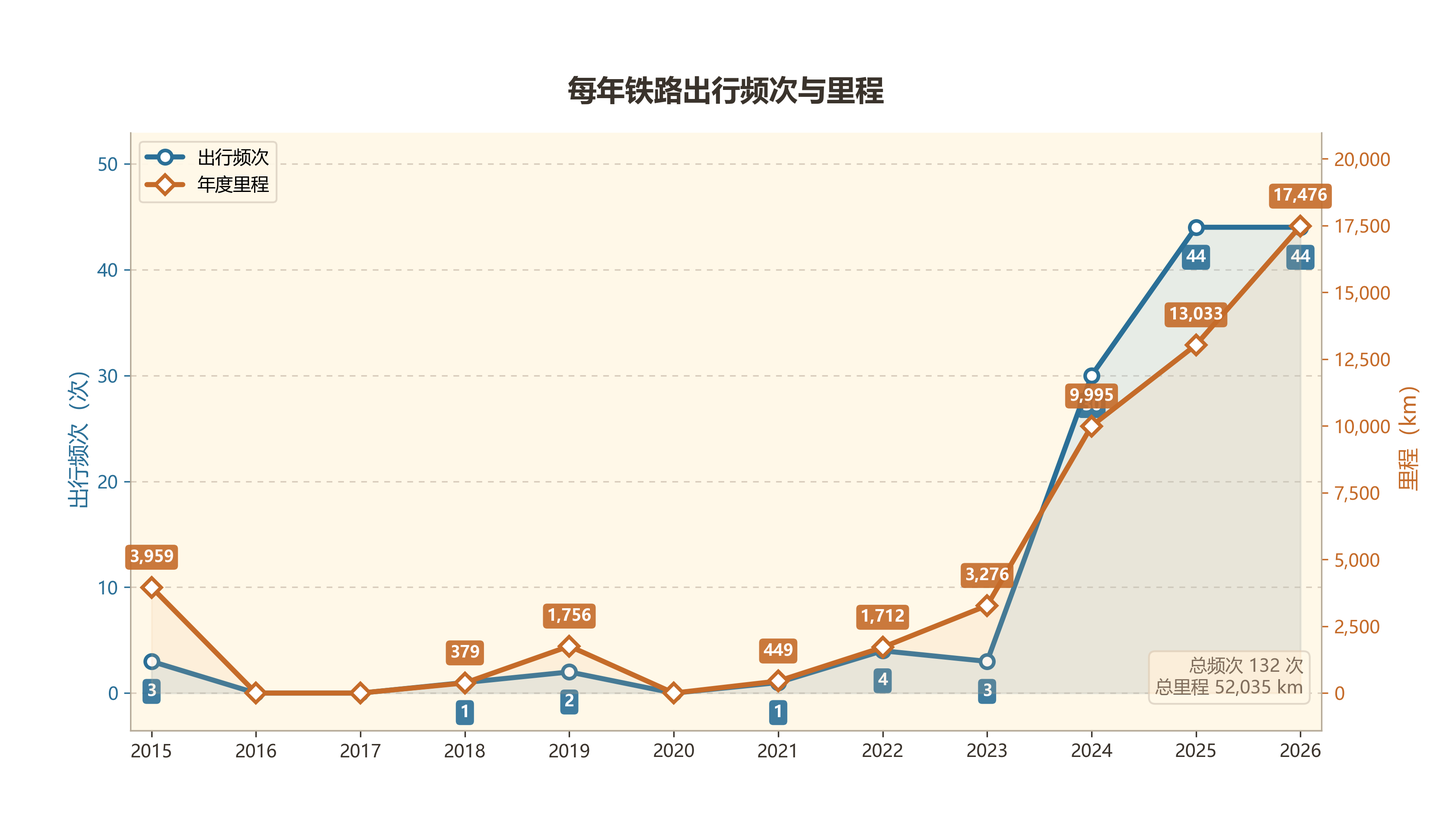
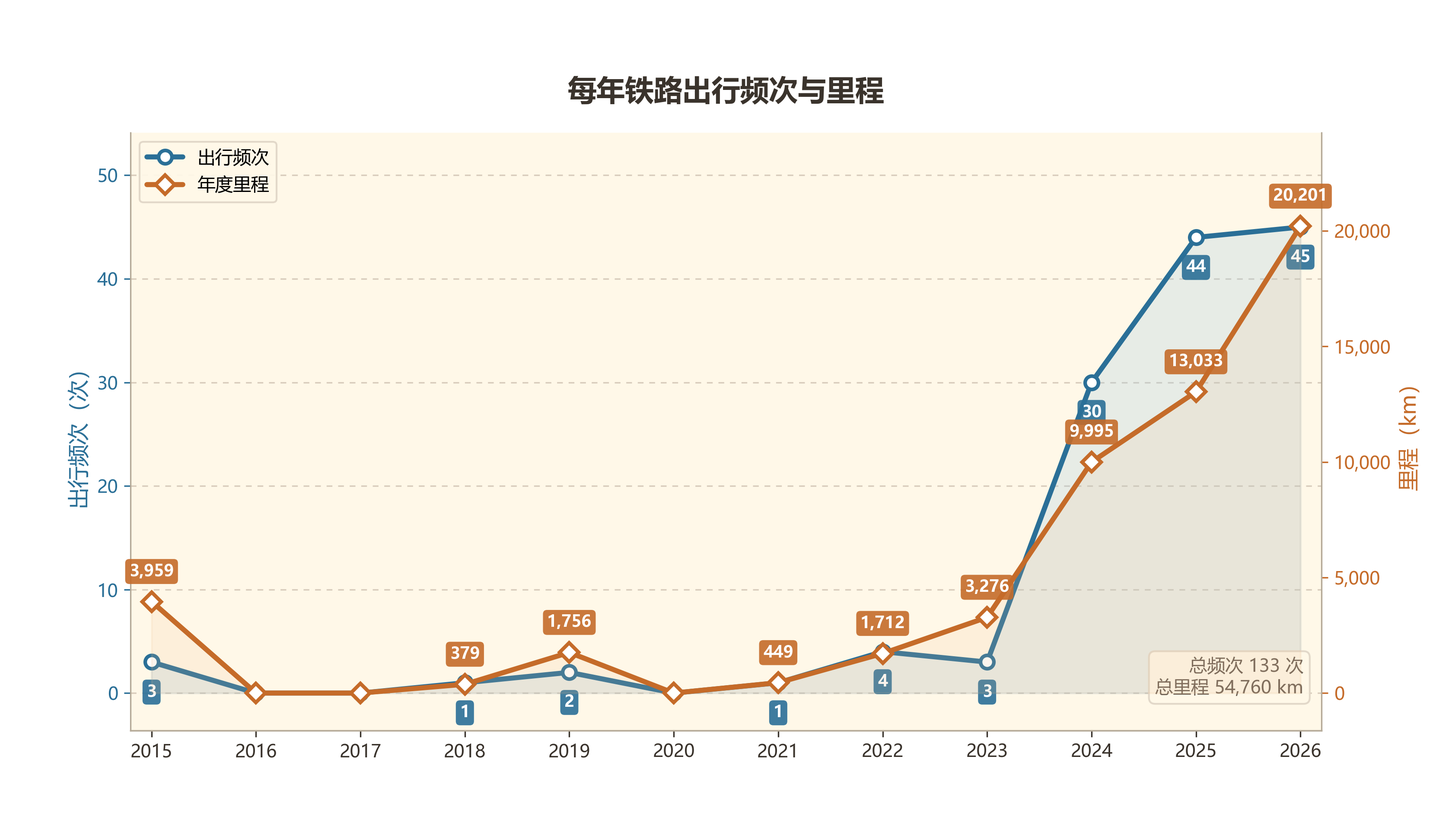
commit

diff --git a/文章统计.md b/文章统计.md
@@ -1,12 +1,12 @@
 # 文章字数统计（游记 + 指定文章）
 
-统计时间： 2026-08-23 07:04:03
+统计时间： 2026-08-23 12:19:47
 
 ## 总体统计
 
-- 文章总数： 34 篇
-- 总字数： 152.4k
-- 平均字数： 4481 字/篇
+- 文章总数： 35 篇
+- 总字数： 153.6k
+- 平均字数： 4387 字/篇
 
 ## 按发表年份统计
 
@@ -15,8 +15,8 @@
 | 2020 | 1 | 6100 | 6100 |
 | 2023 | 1 | 13000 | 13000 |
 | 2024 | 11 | 37360 | 3396 |
-| 2025 | 13 | 58700 | 4515 |
-| 2026 | 8 | 37200 | 4650 |
+| 2025 | 13 | 58800 | 4523 |
+| 2026 | 9 | 38300 | 4255 |
 
 ## 文章详情
 
@@ -35,15 +35,15 @@
 | 11 | “人生短短几个秋啊，不醉不罢休”：在洛阳、郑州的中秋 | 4k | 2024-09-19 | 2026-08-04 | [查看文章](https://kangaroogao.com/posts/4186/) |
 | 12 | 潮汕初探 | 1.2k | 2024-09-20 | 2026-07-12 | [查看文章](https://kangaroogao.com/posts/52b1/) |
 | 13 | 今古一相接，长歌怀旧游：国庆出游杂记 | 4.7k | 2024-10-07 | 2026-07-12 | [查看文章](https://kangaroogao.com/posts/786/) |
-| 14 | 行旅杂记 | 7.2k | 2024-11-15 | 2026-08-17 | [查看文章](https://kangaroogao.com/posts/9e84/) |
+| 14 | 行旅杂记 | 7.2k | 2024-11-15 | 2026-08-23 | [查看文章](https://kangaroogao.com/posts/9e84/) |
 | 15 | 清明游记：枣庄、徐州、淮北 | 6.3k | 2025-04-10 | 2026-08-04 | [查看文章](https://kangaroogao.com/posts/b857/) |
 | 16 | 小城小记1：六安 | 1.5k | 2025-06-24 | 2026-07-27 | [查看文章](https://kangaroogao.com/posts/83be/) |
 | 17 | 北京行迹 | 10.4k | 2025-08-01 | 2026-08-06 | [查看文章](https://kangaroogao.com/posts/1502/) |
-| 18 | 回家路上2：泾县、福州、龙岩、赣州 | 10.5k | 2025-08-06 | 2026-08-04 | [查看文章](https://kangaroogao.com/posts/99aa/) |
+| 18 | 大城小事1：广州 | 4.1k | 2025-08-06 | 2026-08-11 | [查看文章](https://kangaroogao.com/posts/8478/) |
 | 19 | 大城小事2：深圳（兼记东莞） | 1.6k | 2025-08-06 | 2026-07-27 | [查看文章](https://kangaroogao.com/posts/a78e/) |
-| 20 | 大城小事1：广州 | 4.1k | 2025-08-06 | 2026-08-11 | [查看文章](https://kangaroogao.com/posts/8478/) |
+| 20 | 回家路上2：泾县、福州、龙岩、赣州 | 10.5k | 2025-08-06 | 2026-08-04 | [查看文章](https://kangaroogao.com/posts/99aa/) |
 | 21 | 保研夏令营期间的行走 | 1.9k | 2025-08-06 | 2026-07-16 | [查看文章](https://kangaroogao.com/posts/3321/) |
-| 22 | 湛江碎影 | 6k | 2025-08-24 | 2026-08-22 | [查看文章](https://kangaroogao.com/posts/a7ec/) |
+| 22 | 湛江碎影 | 6.1k | 2025-08-24 | 2026-08-23 | [查看文章](https://kangaroogao.com/posts/a7ec/) |
 | 23 | 小城小记2：滁州、马鞍山 | 3.1k | 2025-09-15 | 2026-08-04 | [查看文章](https://kangaroogao.com/posts/cea0/) |
 | 24 | 小城小记3：寿县、阜阳、周口、漯河、驻马店、信阳、孝感 | 7.4k | 2025-10-03 | 2026-08-04 | [查看文章](https://kangaroogao.com/posts/e4f4/) |
 | 25 | 天津初探 | 2.1k | 2025-11-23 | 2026-07-16 | [查看文章](https://kangaroogao.com/posts/ec8e/) |
@@ -56,14 +56,15 @@
 | 32 | 烟雨过金陵 | 4.6k | 2026-07-13 | 2026-07-31 | [查看文章](https://kangaroogao.com/posts/cbd7/) |
 | 33 | 走河西 | 10.7k | 2026-07-20 | 2026-08-22 | [查看文章](https://kangaroogao.com/posts/c866/) |
 | 34 | 周末到河北：张家口（市区、蔚县、宣化） | 2.3k | 2026-08-05 | 2026-08-16 | [查看文章](https://kangaroogao.com/posts/b102/) |
+| 35 | 在 K158 上：十年旅行小结 | 1.1k | 2026-08-09 | 2026-08-23 | [查看文章](https://kangaroogao.com/posts/6ecd/) |
 
 ## 字数分布
 
 - 1000字以下： 1 篇 (2.9%)
-- 1000-3000字： 14 篇 (41.2%)
-- 3000-5000字： 8 篇 (23.5%)
-- 5000-10000字： 7 篇 (20.6%)
-- 10000字以上： 4 篇 (11.8%)
+- 1000-3000字： 15 篇 (42.9%)
+- 3000-5000字： 8 篇 (22.9%)
+- 5000-10000字： 7 篇 (20.0%)
+- 10000字以上： 4 篇 (11.4%)
 
 ## 按字数排序
 
@@ -71,35 +72,36 @@
 |------|----------|------|----------|----------|------|
 | 1 | 冬日访岳阳楼 | 960 | 2024-01-20 | 2026-07-12 | [查看文章](https://kangaroogao.com/posts/1fb2/) |
 | 2 | 雄安印象 | 1k | 2025-12-10 | 2026-07-12 | [查看文章](https://kangaroogao.com/posts/674c/) |
-| 3 | 潮汕初探 | 1.2k | 2024-09-20 | 2026-07-12 | [查看文章](https://kangaroogao.com/posts/52b1/) |
-| 4 | 武汉岳阳行记 | 1.2k | 2024-03-03 | 2026-07-12 | [查看文章](https://kangaroogao.com/posts/6385/) |
-| 5 | 小城小记4：新乡 | 1.4k | 2026-01-16 | 2026-07-16 | [查看文章](https://kangaroogao.com/posts/2661/) |
-| 6 | 小城小记1：六安 | 1.5k | 2025-06-24 | 2026-07-27 | [查看文章](https://kangaroogao.com/posts/83be/) |
-| 7 | 大城小事2：深圳（兼记东莞） | 1.6k | 2025-08-06 | 2026-07-27 | [查看文章](https://kangaroogao.com/posts/a78e/) |
-| 8 | 保研夏令营期间的行走 | 1.9k | 2025-08-06 | 2026-07-16 | [查看文章](https://kangaroogao.com/posts/3321/) |
-| 9 | 黄山西递行记 | 1.9k | 2024-03-10 | 2026-07-16 | [查看文章](https://kangaroogao.com/posts/e08f/) |
-| 10 | 天津初探 | 2.1k | 2025-11-23 | 2026-07-16 | [查看文章](https://kangaroogao.com/posts/ec8e/) |
-| 11 | 周末到河北：张家口（市区、蔚县、宣化） | 2.3k | 2026-08-05 | 2026-08-16 | [查看文章](https://kangaroogao.com/posts/b102/) |
-| 12 | 回家路上1：杭州、宁波、南昌、郴州、韶关 | 2.4k | 2024-08-07 | 2026-08-21 | [查看文章](https://kangaroogao.com/posts/bb58/) |
-| 13 | 心事浩茫连广宇：酒泉访学，兼记嘉峪关 | 2.6k | 2026-04-20 | 2026-07-16 | [查看文章](https://kangaroogao.com/posts/c975/) |
-| 14 | 访山海关 | 2.6k | 2026-01-16 | 2026-07-16 | [查看文章](https://kangaroogao.com/posts/7171/) |
-| 15 | （不太）简短的本站介绍 | 2.8k | 2025-01-25 | 2026-07-12 | [查看文章](https://kangaroogao.com/posts/4086/) |
-| 16 | 小城小记2：滁州、马鞍山 | 3.1k | 2025-09-15 | 2026-08-04 | [查看文章](https://kangaroogao.com/posts/cea0/) |
-| 17 | 这个博客网站是如何搭建的？ | 3.4k | 2024-11-22 | 2026-07-12 | [查看文章](https://kangaroogao.com/posts/18e4/) |
-| 18 | “人生短短几个秋啊，不醉不罢休”：在洛阳、郑州的中秋 | 4k | 2024-09-19 | 2026-08-04 | [查看文章](https://kangaroogao.com/posts/4186/) |
-| 19 | 大城小事1：广州 | 4.1k | 2025-08-06 | 2026-08-11 | [查看文章](https://kangaroogao.com/posts/8478/) |
-| 20 | 烟雨过金陵 | 4.6k | 2026-07-13 | 2026-07-31 | [查看文章](https://kangaroogao.com/posts/cbd7/) |
-| 21 | 今古一相接，长歌怀旧游：国庆出游杂记 | 4.7k | 2024-10-07 | 2026-07-12 | [查看文章](https://kangaroogao.com/posts/786/) |
-| 22 | 山陕漫游 | 4.8k | 2026-07-05 | 2026-08-23 | [查看文章](https://kangaroogao.com/posts/f9d1/) |
-| 23 | 江南江北送君归：从扬州到镇江 | 4.9k | 2024-05-04 | 2026-08-04 | [查看文章](https://kangaroogao.com/posts/8176/) |
-| 24 | 长安一片月，吹梦到西洲：西安一游，兼记咸阳运城 | 5.5k | 2024-07-15 | 2026-07-16 | [查看文章](https://kangaroogao.com/posts/439b/) |
-| 25 | 湛江碎影 | 6k | 2025-08-24 | 2026-08-22 | [查看文章](https://kangaroogao.com/posts/a7ec/) |
-| 26 | 雷州，雷州 | 6.1k | 2020-08-22 | 2026-07-16 | [查看文章](https://kangaroogao.com/posts/4cde/) |
-| 27 | 清明游记：枣庄、徐州、淮北 | 6.3k | 2025-04-10 | 2026-08-04 | [查看文章](https://kangaroogao.com/posts/b857/) |
-| 28 | 行旅杂记 | 7.2k | 2024-11-15 | 2026-08-17 | [查看文章](https://kangaroogao.com/posts/9e84/) |
-| 29 | 小城小记3：寿县、阜阳、周口、漯河、驻马店、信阳、孝感 | 7.4k | 2025-10-03 | 2026-08-04 | [查看文章](https://kangaroogao.com/posts/e4f4/) |
-| 30 | 回家路上3：永州、柳州、来宾、贵港、玉林 | 8.2k | 2026-02-12 | 2026-08-04 | [查看文章](https://kangaroogao.com/posts/526f/) |
-| 31 | 北京行迹 | 10.4k | 2025-08-01 | 2026-08-06 | [查看文章](https://kangaroogao.com/posts/1502/) |
-| 32 | 回家路上2：泾县、福州、龙岩、赣州 | 10.5k | 2025-08-06 | 2026-08-04 | [查看文章](https://kangaroogao.com/posts/99aa/) |
-| 33 | 走河西 | 10.7k | 2026-07-20 | 2026-08-22 | [查看文章](https://kangaroogao.com/posts/c866/) |
-| 34 | 书的奇迹：我的阅读小史（大一下学期之前） | 13k | 2023-03-22 | 2026-08-09 | [查看文章](https://kangaroogao.com/posts/d4b0/) |
+| 3 | 在 K158 上：十年旅行小结 | 1.1k | 2026-08-09 | 2026-08-23 | [查看文章](https://kangaroogao.com/posts/6ecd/) |
+| 4 | 潮汕初探 | 1.2k | 2024-09-20 | 2026-07-12 | [查看文章](https://kangaroogao.com/posts/52b1/) |
+| 5 | 武汉岳阳行记 | 1.2k | 2024-03-03 | 2026-07-12 | [查看文章](https://kangaroogao.com/posts/6385/) |
+| 6 | 小城小记4：新乡 | 1.4k | 2026-01-16 | 2026-07-16 | [查看文章](https://kangaroogao.com/posts/2661/) |
+| 7 | 小城小记1：六安 | 1.5k | 2025-06-24 | 2026-07-27 | [查看文章](https://kangaroogao.com/posts/83be/) |
+| 8 | 大城小事2：深圳（兼记东莞） | 1.6k | 2025-08-06 | 2026-07-27 | [查看文章](https://kangaroogao.com/posts/a78e/) |
+| 9 | 保研夏令营期间的行走 | 1.9k | 2025-08-06 | 2026-07-16 | [查看文章](https://kangaroogao.com/posts/3321/) |
+| 10 | 黄山西递行记 | 1.9k | 2024-03-10 | 2026-07-16 | [查看文章](https://kangaroogao.com/posts/e08f/) |
+| 11 | 天津初探 | 2.1k | 2025-11-23 | 2026-07-16 | [查看文章](https://kangaroogao.com/posts/ec8e/) |
+| 12 | 周末到河北：张家口（市区、蔚县、宣化） | 2.3k | 2026-08-05 | 2026-08-16 | [查看文章](https://kangaroogao.com/posts/b102/) |
+| 13 | 回家路上1：杭州、宁波、南昌、郴州、韶关 | 2.4k | 2024-08-07 | 2026-08-21 | [查看文章](https://kangaroogao.com/posts/bb58/) |
+| 14 | 心事浩茫连广宇：酒泉访学，兼记嘉峪关 | 2.6k | 2026-04-20 | 2026-07-16 | [查看文章](https://kangaroogao.com/posts/c975/) |
+| 15 | 访山海关 | 2.6k | 2026-01-16 | 2026-07-16 | [查看文章](https://kangaroogao.com/posts/7171/) |
+| 16 | （不太）简短的本站介绍 | 2.8k | 2025-01-25 | 2026-07-12 | [查看文章](https://kangaroogao.com/posts/4086/) |
+| 17 | 小城小记2：滁州、马鞍山 | 3.1k | 2025-09-15 | 2026-08-04 | [查看文章](https://kangaroogao.com/posts/cea0/) |
+| 18 | 这个博客网站是如何搭建的？ | 3.4k | 2024-11-22 | 2026-07-12 | [查看文章](https://kangaroogao.com/posts/18e4/) |
+| 19 | “人生短短几个秋啊，不醉不罢休”：在洛阳、郑州的中秋 | 4k | 2024-09-19 | 2026-08-04 | [查看文章](https://kangaroogao.com/posts/4186/) |
+| 20 | 大城小事1：广州 | 4.1k | 2025-08-06 | 2026-08-11 | [查看文章](https://kangaroogao.com/posts/8478/) |
+| 21 | 烟雨过金陵 | 4.6k | 2026-07-13 | 2026-07-31 | [查看文章](https://kangaroogao.com/posts/cbd7/) |
+| 22 | 今古一相接，长歌怀旧游：国庆出游杂记 | 4.7k | 2024-10-07 | 2026-07-12 | [查看文章](https://kangaroogao.com/posts/786/) |
+| 23 | 山陕漫游 | 4.8k | 2026-07-05 | 2026-08-23 | [查看文章](https://kangaroogao.com/posts/f9d1/) |
+| 24 | 江南江北送君归：从扬州到镇江 | 4.9k | 2024-05-04 | 2026-08-04 | [查看文章](https://kangaroogao.com/posts/8176/) |
+| 25 | 长安一片月，吹梦到西洲：西安一游，兼记咸阳运城 | 5.5k | 2024-07-15 | 2026-07-16 | [查看文章](https://kangaroogao.com/posts/439b/) |
+| 26 | 湛江碎影 | 6.1k | 2025-08-24 | 2026-08-23 | [查看文章](https://kangaroogao.com/posts/a7ec/) |
+| 27 | 雷州，雷州 | 6.1k | 2020-08-22 | 2026-07-16 | [查看文章](https://kangaroogao.com/posts/4cde/) |
+| 28 | 清明游记：枣庄、徐州、淮北 | 6.3k | 2025-04-10 | 2026-08-04 | [查看文章](https://kangaroogao.com/posts/b857/) |
+| 29 | 行旅杂记 | 7.2k | 2024-11-15 | 2026-08-23 | [查看文章](https://kangaroogao.com/posts/9e84/) |
+| 30 | 小城小记3：寿县、阜阳、周口、漯河、驻马店、信阳、孝感 | 7.4k | 2025-10-03 | 2026-08-04 | [查看文章](https://kangaroogao.com/posts/e4f4/) |
+| 31 | 回家路上3：永州、柳州、来宾、贵港、玉林 | 8.2k | 2026-02-12 | 2026-08-04 | [查看文章](https://kangaroogao.com/posts/526f/) |
+| 32 | 北京行迹 | 10.4k | 2025-08-01 | 2026-08-06 | [查看文章](https://kangaroogao.com/posts/1502/) |
+| 33 | 回家路上2：泾县、福州、龙岩、赣州 | 10.5k | 2025-08-06 | 2026-08-04 | [查看文章](https://kangaroogao.com/posts/99aa/) |
+| 34 | 走河西 | 10.7k | 2026-07-20 | 2026-08-22 | [查看文章](https://kangaroogao.com/posts/c866/) |
+| 35 | 书的奇迹：我的阅读小史（大一下学期之前） | 13k | 2023-03-22 | 2026-08-09 | [查看文章](https://kangaroogao.com/posts/d4b0/) |

diff --git a/游记统计.md b/游记统计.md
@@ -1,20 +1,20 @@
 # 游记类别字数统计
 
-统计时间： 2026-08-23 07:03:55
+统计时间： 2026-08-23 12:19:39
 
 ## 总体统计
 
-- 文章总数： 30 篇
-- 总字数： 127.1k
-- 平均字数： 4235 字/篇
+- 文章总数： 31 篇
+- 总字数： 128.3k
+- 平均字数： 4137 字/篇
 
 ## 按发表年份统计
 
 | 年份 | 篇数 | 总字数 | 平均字数 |
 |------|------|--------|----------|
 | 2024 | 10 | 33960 | 3396 |
-| 2025 | 12 | 55900 | 4658 |
-| 2026 | 8 | 37200 | 4650 |
+| 2025 | 12 | 56000 | 4666 |
+| 2026 | 9 | 38300 | 4255 |
 
 ## 文章详情
 
@@ -29,15 +29,15 @@
 | 7 | “人生短短几个秋啊，不醉不罢休”：在洛阳、郑州的中秋 | 4k | 2024-09-19 | 2026-08-04 | [查看文章](https://kangaroogao.com/posts/4186/) |
 | 8 | 潮汕初探 | 1.2k | 2024-09-20 | 2026-07-12 | [查看文章](https://kangaroogao.com/posts/52b1/) |
 | 9 | 今古一相接，长歌怀旧游：国庆出游杂记 | 4.7k | 2024-10-07 | 2026-07-12 | [查看文章](https://kangaroogao.com/posts/786/) |
-| 10 | 行旅杂记 | 7.2k | 2024-11-15 | 2026-08-17 | [查看文章](https://kangaroogao.com/posts/9e84/) |
+| 10 | 行旅杂记 | 7.2k | 2024-11-15 | 2026-08-23 | [查看文章](https://kangaroogao.com/posts/9e84/) |
 | 11 | 清明游记：枣庄、徐州、淮北 | 6.3k | 2025-04-10 | 2026-08-04 | [查看文章](https://kangaroogao.com/posts/b857/) |
 | 12 | 小城小记1：六安 | 1.5k | 2025-06-24 | 2026-07-27 | [查看文章](https://kangaroogao.com/posts/83be/) |
 | 13 | 北京行迹 | 10.4k | 2025-08-01 | 2026-08-06 | [查看文章](https://kangaroogao.com/posts/1502/) |
-| 14 | 回家路上2：泾县、福州、龙岩、赣州 | 10.5k | 2025-08-06 | 2026-08-04 | [查看文章](https://kangaroogao.com/posts/99aa/) |
+| 14 | 大城小事1：广州 | 4.1k | 2025-08-06 | 2026-08-11 | [查看文章](https://kangaroogao.com/posts/8478/) |
 | 15 | 大城小事2：深圳（兼记东莞） | 1.6k | 2025-08-06 | 2026-07-27 | [查看文章](https://kangaroogao.com/posts/a78e/) |
-| 16 | 大城小事1：广州 | 4.1k | 2025-08-06 | 2026-08-11 | [查看文章](https://kangaroogao.com/posts/8478/) |
+| 16 | 回家路上2：泾县、福州、龙岩、赣州 | 10.5k | 2025-08-06 | 2026-08-04 | [查看文章](https://kangaroogao.com/posts/99aa/) |
 | 17 | 保研夏令营期间的行走 | 1.9k | 2025-08-06 | 2026-07-16 | [查看文章](https://kangaroogao.com/posts/3321/) |
-| 18 | 湛江碎影 | 6k | 2025-08-24 | 2026-08-22 | [查看文章](https://kangaroogao.com/posts/a7ec/) |
+| 18 | 湛江碎影 | 6.1k | 2025-08-24 | 2026-08-23 | [查看文章](https://kangaroogao.com/posts/a7ec/) |
 | 19 | 小城小记2：滁州、马鞍山 | 3.1k | 2025-09-15 | 2026-08-04 | [查看文章](https://kangaroogao.com/posts/cea0/) |
 | 20 | 小城小记3：寿县、阜阳、周口、漯河、驻马店、信阳、孝感 | 7.4k | 2025-10-03 | 2026-08-04 | [查看文章](https://kangaroogao.com/posts/e4f4/) |
 | 21 | 天津初探 | 2.1k | 2025-11-23 | 2026-07-16 | [查看文章](https://kangaroogao.com/posts/ec8e/) |
@@ -50,14 +50,15 @@
 | 28 | 烟雨过金陵 | 4.6k | 2026-07-13 | 2026-07-31 | [查看文章](https://kangaroogao.com/posts/cbd7/) |
 | 29 | 走河西 | 10.7k | 2026-07-20 | 2026-08-22 | [查看文章](https://kangaroogao.com/posts/c866/) |
 | 30 | 周末到河北：张家口（市区、蔚县、宣化） | 2.3k | 2026-08-05 | 2026-08-16 | [查看文章](https://kangaroogao.com/posts/b102/) |
+| 31 | 在 K158 上：十年旅行小结 | 1.1k | 2026-08-09 | 2026-08-23 | [查看文章](https://kangaroogao.com/posts/6ecd/) |
 
 ## 字数分布
 
-- 1000字以下： 1 篇 (3.3%)
-- 1000-3000字： 13 篇 (43.3%)
-- 3000-5000字： 7 篇 (23.3%)
-- 5000-10000字： 6 篇 (20.0%)
-- 10000字以上： 3 篇 (10.0%)
+- 1000字以下： 1 篇 (3.2%)
+- 1000-3000字： 14 篇 (45.2%)
+- 3000-5000字： 7 篇 (22.6%)
+- 5000-10000字： 6 篇 (19.4%)
+- 10000字以上： 3 篇 (9.7%)
 
 ## 按字数排序
 
@@ -65,31 +66,32 @@
 |------|----------|------|----------|----------|------|
 | 1 | 冬日访岳阳楼 | 960 | 2024-01-20 | 2026-07-12 | [查看文章](https://kangaroogao.com/posts/1fb2/) |
 | 2 | 雄安印象 | 1k | 2025-12-10 | 2026-07-12 | [查看文章](https://kangaroogao.com/posts/674c/) |
-| 3 | 潮汕初探 | 1.2k | 2024-09-20 | 2026-07-12 | [查看文章](https://kangaroogao.com/posts/52b1/) |
-| 4 | 武汉岳阳行记 | 1.2k | 2024-03-03 | 2026-07-12 | [查看文章](https://kangaroogao.com/posts/6385/) |
-| 5 | 小城小记4：新乡 | 1.4k | 2026-01-16 | 2026-07-16 | [查看文章](https://kangaroogao.com/posts/2661/) |
-| 6 | 小城小记1：六安 | 1.5k | 2025-06-24 | 2026-07-27 | [查看文章](https://kangaroogao.com/posts/83be/) |
-| 7 | 大城小事2：深圳（兼记东莞） | 1.6k | 2025-08-06 | 2026-07-27 | [查看文章](https://kangaroogao.com/posts/a78e/) |
-| 8 | 保研夏令营期间的行走 | 1.9k | 2025-08-06 | 2026-07-16 | [查看文章](https://kangaroogao.com/posts/3321/) |
-| 9 | 黄山西递行记 | 1.9k | 2024-03-10 | 2026-07-16 | [查看文章](https://kangaroogao.com/posts/e08f/) |
-| 10 | 天津初探 | 2.1k | 2025-11-23 | 2026-07-16 | [查看文章](https://kangaroogao.com/posts/ec8e/) |
-| 11 | 周末到河北：张家口（市区、蔚县、宣化） | 2.3k | 2026-08-05 | 2026-08-16 | [查看文章](https://kangaroogao.com/posts/b102/) |
-| 12 | 回家路上1：杭州、宁波、南昌、郴州、韶关 | 2.4k | 2024-08-07 | 2026-08-21 | [查看文章](https://kangaroogao.com/posts/bb58/) |
-| 13 | 心事浩茫连广宇：酒泉访学，兼记嘉峪关 | 2.6k | 2026-04-20 | 2026-07-16 | [查看文章](https://kangaroogao.com/posts/c975/) |
-| 14 | 访山海关 | 2.6k | 2026-01-16 | 2026-07-16 | [查看文章](https://kangaroogao.com/posts/7171/) |
-| 15 | 小城小记2：滁州、马鞍山 | 3.1k | 2025-09-15 | 2026-08-04 | [查看文章](https://kangaroogao.com/posts/cea0/) |
-| 16 | “人生短短几个秋啊，不醉不罢休”：在洛阳、郑州的中秋 | 4k | 2024-09-19 | 2026-08-04 | [查看文章](https://kangaroogao.com/posts/4186/) |
-| 17 | 大城小事1：广州 | 4.1k | 2025-08-06 | 2026-08-11 | [查看文章](https://kangaroogao.com/posts/8478/) |
-| 18 | 烟雨过金陵 | 4.6k | 2026-07-13 | 2026-07-31 | [查看文章](https://kangaroogao.com/posts/cbd7/) |
-| 19 | 今古一相接，长歌怀旧游：国庆出游杂记 | 4.7k | 2024-10-07 | 2026-07-12 | [查看文章](https://kangaroogao.com/posts/786/) |
-| 20 | 山陕漫游 | 4.8k | 2026-07-05 | 2026-08-23 | [查看文章](https://kangaroogao.com/posts/f9d1/) |
-| 21 | 江南江北送君归：从扬州到镇江 | 4.9k | 2024-05-04 | 2026-08-04 | [查看文章](https://kangaroogao.com/posts/8176/) |
-| 22 | 长安一片月，吹梦到西洲：西安一游，兼记咸阳运城 | 5.5k | 2024-07-15 | 2026-07-16 | [查看文章](https://kangaroogao.com/posts/439b/) |
-| 23 | 湛江碎影 | 6k | 2025-08-24 | 2026-08-22 | [查看文章](https://kangaroogao.com/posts/a7ec/) |
-| 24 | 清明游记：枣庄、徐州、淮北 | 6.3k | 2025-04-10 | 2026-08-04 | [查看文章](https://kangaroogao.com/posts/b857/) |
-| 25 | 行旅杂记 | 7.2k | 2024-11-15 | 2026-08-17 | [查看文章](https://kangaroogao.com/posts/9e84/) |
-| 26 | 小城小记3：寿县、阜阳、周口、漯河、驻马店、信阳、孝感 | 7.4k | 2025-10-03 | 2026-08-04 | [查看文章](https://kangaroogao.com/posts/e4f4/) |
-| 27 | 回家路上3：永州、柳州、来宾、贵港、玉林 | 8.2k | 2026-02-12 | 2026-08-04 | [查看文章](https://kangaroogao.com/posts/526f/) |
-| 28 | 北京行迹 | 10.4k | 2025-08-01 | 2026-08-06 | [查看文章](https://kangaroogao.com/posts/1502/) |
-| 29 | 回家路上2：泾县、福州、龙岩、赣州 | 10.5k | 2025-08-06 | 2026-08-04 | [查看文章](https://kangaroogao.com/posts/99aa/) |
-| 30 | 走河西 | 10.7k | 2026-07-20 | 2026-08-22 | [查看文章](https://kangaroogao.com/posts/c866/) |
+| 3 | 在 K158 上：十年旅行小结 | 1.1k | 2026-08-09 | 2026-08-23 | [查看文章](https://kangaroogao.com/posts/6ecd/) |
+| 4 | 潮汕初探 | 1.2k | 2024-09-20 | 2026-07-12 | [查看文章](https://kangaroogao.com/posts/52b1/) |
+| 5 | 武汉岳阳行记 | 1.2k | 2024-03-03 | 2026-07-12 | [查看文章](https://kangaroogao.com/posts/6385/) |
+| 6 | 小城小记4：新乡 | 1.4k | 2026-01-16 | 2026-07-16 | [查看文章](https://kangaroogao.com/posts/2661/) |
+| 7 | 小城小记1：六安 | 1.5k | 2025-06-24 | 2026-07-27 | [查看文章](https://kangaroogao.com/posts/83be/) |
+| 8 | 大城小事2：深圳（兼记东莞） | 1.6k | 2025-08-06 | 2026-07-27 | [查看文章](https://kangaroogao.com/posts/a78e/) |
+| 9 | 保研夏令营期间的行走 | 1.9k | 2025-08-06 | 2026-07-16 | [查看文章](https://kangaroogao.com/posts/3321/) |
+| 10 | 黄山西递行记 | 1.9k | 2024-03-10 | 2026-07-16 | [查看文章](https://kangaroogao.com/posts/e08f/) |
+| 11 | 天津初探 | 2.1k | 2025-11-23 | 2026-07-16 | [查看文章](https://kangaroogao.com/posts/ec8e/) |
+| 12 | 周末到河北：张家口（市区、蔚县、宣化） | 2.3k | 2026-08-05 | 2026-08-16 | [查看文章](https://kangaroogao.com/posts/b102/) |
+| 13 | 回家路上1：杭州、宁波、南昌、郴州、韶关 | 2.4k | 2024-08-07 | 2026-08-21 | [查看文章](https://kangaroogao.com/posts/bb58/) |
+| 14 | 心事浩茫连广宇：酒泉访学，兼记嘉峪关 | 2.6k | 2026-04-20 | 2026-07-16 | [查看文章](https://kangaroogao.com/posts/c975/) |
+| 15 | 访山海关 | 2.6k | 2026-01-16 | 2026-07-16 | [查看文章](https://kangaroogao.com/posts/7171/) |
+| 16 | 小城小记2：滁州、马鞍山 | 3.1k | 2025-09-15 | 2026-08-04 | [查看文章](https://kangaroogao.com/posts/cea0/) |
+| 17 | “人生短短几个秋啊，不醉不罢休”：在洛阳、郑州的中秋 | 4k | 2024-09-19 | 2026-08-04 | [查看文章](https://kangaroogao.com/posts/4186/) |
+| 18 | 大城小事1：广州 | 4.1k | 2025-08-06 | 2026-08-11 | [查看文章](https://kangaroogao.com/posts/8478/) |
+| 19 | 烟雨过金陵 | 4.6k | 2026-07-13 | 2026-07-31 | [查看文章](https://kangaroogao.com/posts/cbd7/) |
+| 20 | 今古一相接，长歌怀旧游：国庆出游杂记 | 4.7k | 2024-10-07 | 2026-07-12 | [查看文章](https://kangaroogao.com/posts/786/) |
+| 21 | 山陕漫游 | 4.8k | 2026-07-05 | 2026-08-23 | [查看文章](https://kangaroogao.com/posts/f9d1/) |
+| 22 | 江南江北送君归：从扬州到镇江 | 4.9k | 2024-05-04 | 2026-08-04 | [查看文章](https://kangaroogao.com/posts/8176/) |
+| 23 | 长安一片月，吹梦到西洲：西安一游，兼记咸阳运城 | 5.5k | 2024-07-15 | 2026-07-16 | [查看文章](https://kangaroogao.com/posts/439b/) |
+| 24 | 湛江碎影 | 6.1k | 2025-08-24 | 2026-08-23 | [查看文章](https://kangaroogao.com/posts/a7ec/) |
+| 25 | 清明游记：枣庄、徐州、淮北 | 6.3k | 2025-04-10 | 2026-08-04 | [查看文章](https://kangaroogao.com/posts/b857/) |
+| 26 | 行旅杂记 | 7.2k | 2024-11-15 | 2026-08-23 | [查看文章](https://kangaroogao.com/posts/9e84/) |
+| 27 | 小城小记3：寿县、阜阳、周口、漯河、驻马店、信阳、孝感 | 7.4k | 2025-10-03 | 2026-08-04 | [查看文章](https://kangaroogao.com/posts/e4f4/) |
+| 28 | 回家路上3：永州、柳州、来宾、贵港、玉林 | 8.2k | 2026-02-12 | 2026-08-04 | [查看文章](https://kangaroogao.com/posts/526f/) |
+| 29 | 北京行迹 | 10.4k | 2025-08-01 | 2026-08-06 | [查看文章](https://kangaroogao.com/posts/1502/) |
+| 30 | 回家路上2：泾县、福州、龙岩、赣州 | 10.5k | 2025-08-06 | 2026-08-04 | [查看文章](https://kangaroogao.com/posts/99aa/) |
+| 31 | 走河西 | 10.7k | 2026-07-20 | 2026-08-22 | [查看文章](https://kangaroogao.com/posts/c866/) |

diff --git a/source/_posts/在 K158 上.md b/source/_posts/在 K158 上.md
@@ -1,0 +1,52 @@
+---
+title: 在 K158 上：十年旅行小结
+tags: 游记
+categories: 行走足迹
+abbrlink: 6ecd
+---
+
+2015年12月31日晚上，我与父亲、校长及一众同学坐上 K158，踏上前往北京参加科技比赛的旅程。
+
+2026年8月23日早上，母亲送我到湛江站后，我独自登上 K158，前往北京迎接即将到来的博士生涯。
+
+两次旅程正好相隔十年。十年间，K158 次列车的发车时间历经多次调整，从晚上改到早上，经停车站也略有变化；我也经过了小升初、初中、高中和大学本科等多个人生阶段，因而特意选择在进京途中再次乘坐这趟车，并在车窗边写下这篇文字。
+
+K158 次列车从湛江站出发后，沿黎湛铁路往西北进入广西，经柳州、桂林后从永州进入湖南，最后从衡阳进入京广线，经停遂溪、廉江、陆川、玉林、贵港、柳州、桂林北、全州南、永州、衡阳、长沙、武昌、花园、广水、信阳、驻马店、西平、漯河、许昌、郑州、新乡、鹤壁、安阳、邯郸、邢台、石家庄、定州、保定、高碑店等29个车站后，于次日晚上10点54分抵达北京西站，跨越六个省市，里程2725 km，时长近37小时（其实如果不是有意纪念，我也不愿花费如此多的时间）。
+
+加强与人的联系
+摄影（相机，航拍）
+外国
+历史文献 更扎实的调研与记录
+故地重游
+非市区（目前只去过高邮、永济、巩义、虎门（特殊）、台儿庄、泾县、上杭、长汀、瑞金、于都、全椒、寿县、颍上、祁阳、兴县、保德、府谷、神木、甘谷、武山、陇西、玉门、敦煌）
+分主题（人文：古代史，近代史，当代史，城乡规划与建设，古建筑，石窟，考古，宗教，文化比较，历史地理学，历史现场，社会问题，产业发展，省份，铁路，县城乡镇；自然：山川形胜，各种地理形态，自然与人文、城镇的颜色）
+徒步
+O ever youthful, O ever weeping.
+on the road
+去岳阳前激动
+离开武汉时下雪
+记录细节 与 精简成文的矛盾
+文风 隔一段时间再写可能会有变化 但回错失记忆，将来再看发现过去写得不好，说明有进步
+将来繁忙 可能会有很多记不上
+把握住人生的一种手段
+文章里是否说“我”
+规划好的路线方向不想改变
+回家心情闲适，离家不想多走
+逛菜市场
+没有航拍 看不到宣传片效果
+不用微信公众号，自娱自乐
+没走完安徽
+出发前读古诗
+看《旅行(El viaje)》
+
+不用AI写随笔，但用 AI 校对
+目的
+题材
+内容
+插图
+播客
+语言
+
+一二年级时晚上写作文是件无比痛苦的事，常常要母亲一句一句教着写。老师叫我们写日记，我都不理解日记这种体裁是什么，常常写成我的妈妈、一件难忘的事之类。后来发现了自己的“特长”，就是写流水账，到现在还是这样。记得去森林公园的游记，我洋洋洒洒写了好几页纸（小日记本），但大部分篇幅写在路上看到的东西，关于公园的反而不多，只记得写了一句“就好像扑进了大自然的怀抱”，被蔡映霞老师特别圈出来。四五年级时写过一篇去北海的游记，1200多字，是小学写过的最长一篇文章，后来被孙洁老师删减，发表在校报上（她当时负责小报的编辑，一学期一份），题目改为《缤纷夏日游北海》。在校长谢文东被调走（据说还被降级）后，他在任时搞的很多东西都没保留下来，比如校报。作文补习班自然也报了不少，小学时在一个老教师家上课，她家里一大堆旧杂志，我每次都拿来上课低着头看。后来还去过两个地方补语文，一直到初二，也没什么长进，到高一时写记叙文还是很痛苦。
+
+<figure style="text-align: center;"> <img src="https://s3.bmp.ovh/2026/08/23/t0k771oL.png" alt="K158 路线" style="display: block; margin-left: auto; margin-right: auto;width: 100%;"></figure>

diff --git a/source/_posts/读书笔记（大三下）.md b/source/_posts/读书笔记（大三下）.md
@@ -109,7 +109,7 @@ date: 2025-03-01 00:00:00
 
 早已听说许知远的大名，但这是第一次读他的书，也尚未看过《十三邀》。我内心一直与这些在公众视野中频繁出现与发声的“知识分子”保持一定的距离，或许是因为自己没有这般才气，且并非专攻于文史哲，听到他们说起各种陌生的舶来名词便有些敬而远之，也正由于自己的浅陋，便无法分辨与反驳他们的话语，读起来似乎都很有道理，但合上书便没了什么印象。与之同时，又有不少作者的文字让我感到亲切，比如《读库》中的非虚构文章和胡成、罗新的作品，或许是这些内容更接近自己的生活，描述的对象也是我更感兴趣的事物。因而我没有将这两类作高下之分，所感之异目前暂时归结于自身的阅历和知识背景，至于前者是否包含一种傲慢或“知识分子的优越性”，目前尚难判断。但本书给我的感觉尚可，读来虽没有那么亲切，但也已足够吸引人。
 
-# 巨龙抬头——我们的90年代
+# 巨龙抬头：我们的90年代
 ## 张玮
 
 本书由公众号上的10篇文章集合而成，而之所以购此书，只是见其带有作者签名，但事后想来，要签名又有何用？“馒头说”后来也取消关注了。

diff --git a/source/_posts/行旅杂记.md b/source/_posts/行旅杂记.md
@@ -172,10 +172,10 @@ date: 2024-11-15 00:00:00
 </div>
 
 <div style="text-align: center; font-size: 0;">
-  <img src="https://s3.bmp.ovh/2026/08/09/2i7VzYev.png" alt="铁路出行里程与频次" style="width: 49%; display: inline-block;"><img src="https://s3.bmp.ovh/2026/06/15/7Gh2AXsd.png" alt="飞行里程与频次" style="width: 49%; display: inline-block;">
+  <img src="https://s3.bmp.ovh/2026/08/23/MwAsunw5.png" alt="铁路出行里程与频次" style="width: 49%; display: inline-block;"><img src="https://s3.bmp.ovh/2026/06/15/7Gh2AXsd.png" alt="飞行里程与频次" style="width: 49%; display: inline-block;">
 </div>
 
-<figure style="text-align: center;"> <img src="https://s3.bmp.ovh/2026/08/09/yKHdWGv9.png" alt="铁路线路" style="display: block; margin-left: auto; margin-right: auto;width: 100%;"></figure>
+<figure style="text-align: center;"> <img src="https://s3.bmp.ovh/2026/08/23/WI3jfaqc.png" alt="铁路路线" style="display: block; margin-left: auto; margin-right: auto;width: 100%;"></figure>
 
 {% hideToggle 展开铁路记录表 %}
 
@@ -313,6 +313,7 @@ date: 2024-11-15 00:00:00
 ||宣化北|清河|D1050|141|
 ||北京西|广州|D901|1989|
 ||广州|湛江北|G5689|369|
+||湛江|北京西|K158|2725|
 {% endhideToggle %}
 
 {% hideToggle 展开车站列表 %}

diff --git a/source/_posts/湛江碎影.md b/source/_posts/湛江碎影.md
@@ -67,7 +67,7 @@ date: 2025-08-24 00:00:00
 
 ---
 
-8月9日乘去年12月22日开通的广湛高铁回到湛江，直达只要一个半小时。这条线路过坡头后经海底隧道到新建成的湛江北站。其实历史上湛江还有一个北站，位于赤坎北站路，建成于1955年，已于2016年完全拆除；而新的湛江北站则位于已于2022年搬走的湛江老机场的空地上。另外，现在的湛江西站也不是原来的湛江西站，西站旧址位于今址以南3.5公里处。
+8月9日乘去年12月22日开通的广湛高铁回到湛江，直达只要一个半小时。这条线路过坡头后经海底隧道到新建成的湛江北站。其实历史上湛江还有一个北站，位于赤坎北站路，建成于1955年，已于2016年完全拆除；而新的湛江北站则位于已于2022年搬走的湛江老机场的空地上。另外，现在的湛江西站也不是原来的湛江西站，西站旧址位于今址以南3.5公里处。关于湛江的火车站，还有一个冷知识是湛江站与湛江西站、湛江北站不属于同一个铁路局，湛江站是黎（南宁黎塘）湛铁路的终点站，由南宁铁路局管辖，而西站与北站则属于广州铁路局。
 
 ---
 

diff --git a/source/_posts/本科阅读记录.md b/source/_posts/本科阅读记录.md
@@ -89,7 +89,7 @@ date: 2024-11-15 00:00:00
 71. 陇关道
 72. 杜甫的五城：一位唐史学者的寻踪壮游
 73. 意外的旅程：从黑河到腾冲
-74. 巨龙抬头——我们的90年代
+74. 巨龙抬头：我们的90年代
 75. 中县干部
 76. 江湖丛谈
 77. 在中国大地上：搭火车旅行记

diff --git a/source/_posts/读书笔记（大四下）.md b/source/_posts/读书笔记（大四下）.md
@@ -100,3 +100,4 @@ T 说：“感觉里面的文章有种一以贯之的对灵性的向往和对它
 # 叫魂：1768年妖术大恐慌
 ## 孔飞力
 
+这本书购于2025年3月（了解到此书大概是在高中时，因学校图书馆没有而决定购买），但直到2026年7、8月间才一鼓作气读完。

diff --git a/source/journey/index.md b/source/journey/index.md
@@ -6,7 +6,7 @@ title: Journey
 - [行程轨迹汇总](../posts/dbd5/)
 
 - 常驻城市
-  - [湛江碎影](../posts/a7ec/)（6k）
+  - [湛江碎影](../posts/a7ec/)（6.1k）
   - [合肥行迹](../posts/9296/)（608）
   - [北京行迹](../posts/1502/)（10.4k）
 

diff --git a/renew.md b/renew.md
@@ -978,3 +978,7 @@
 8.22
    1. 加 旅行
    2. 加湛江北站、湛江西站介绍
+
+8.23
+   1. 写 在K158 上
+   2. 写叫魂读书笔记
